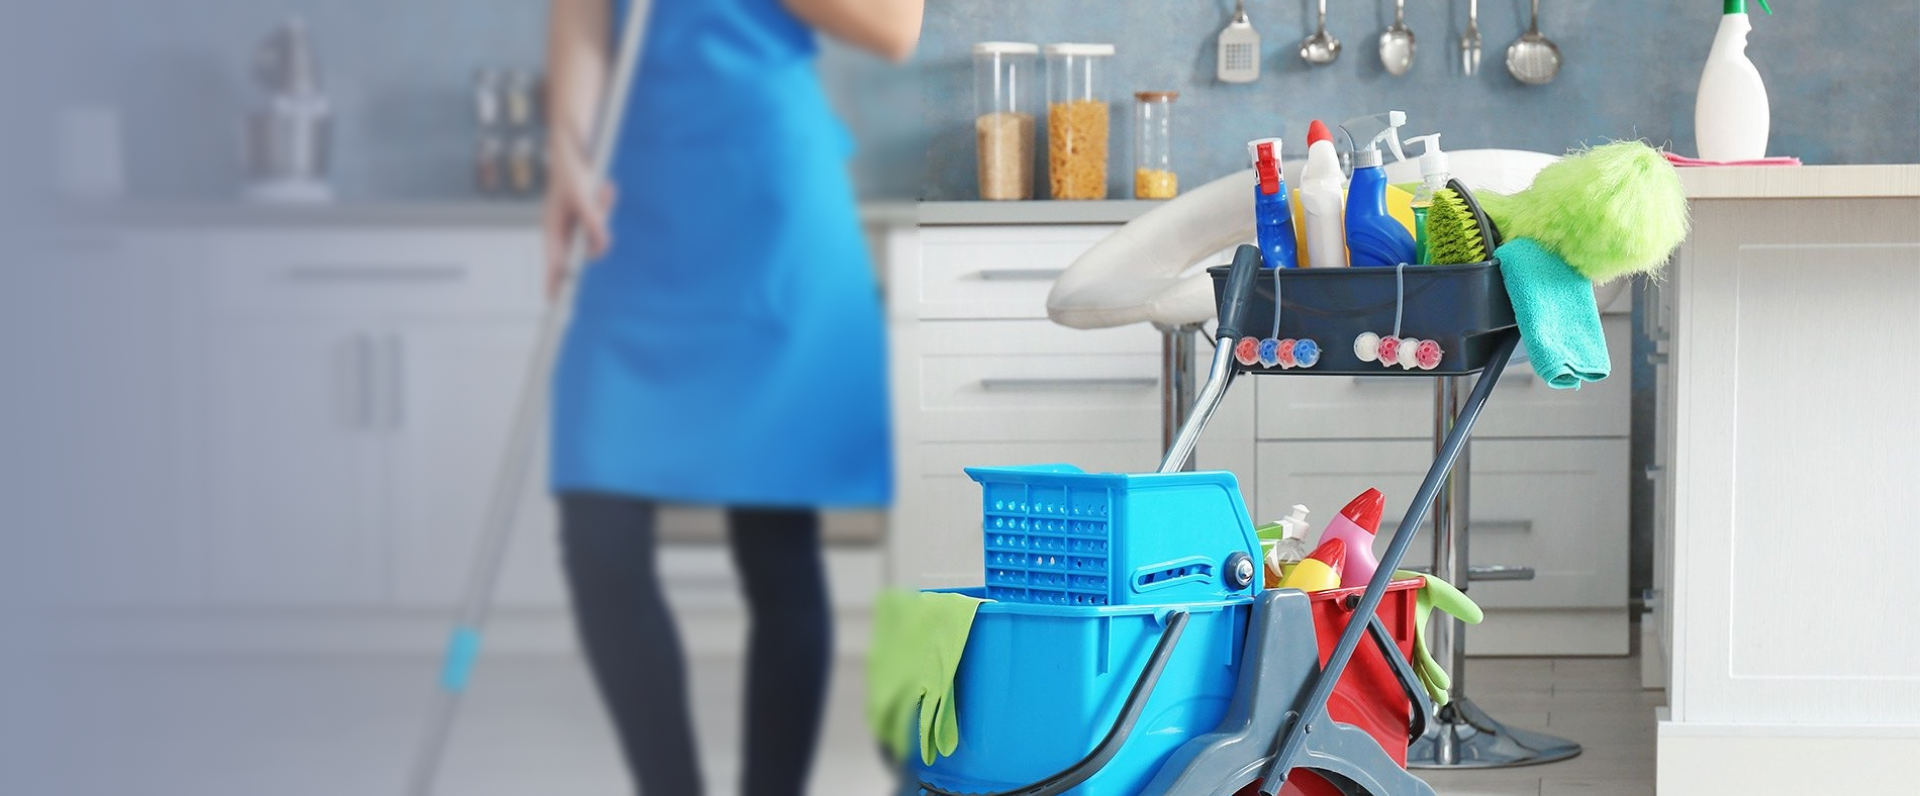
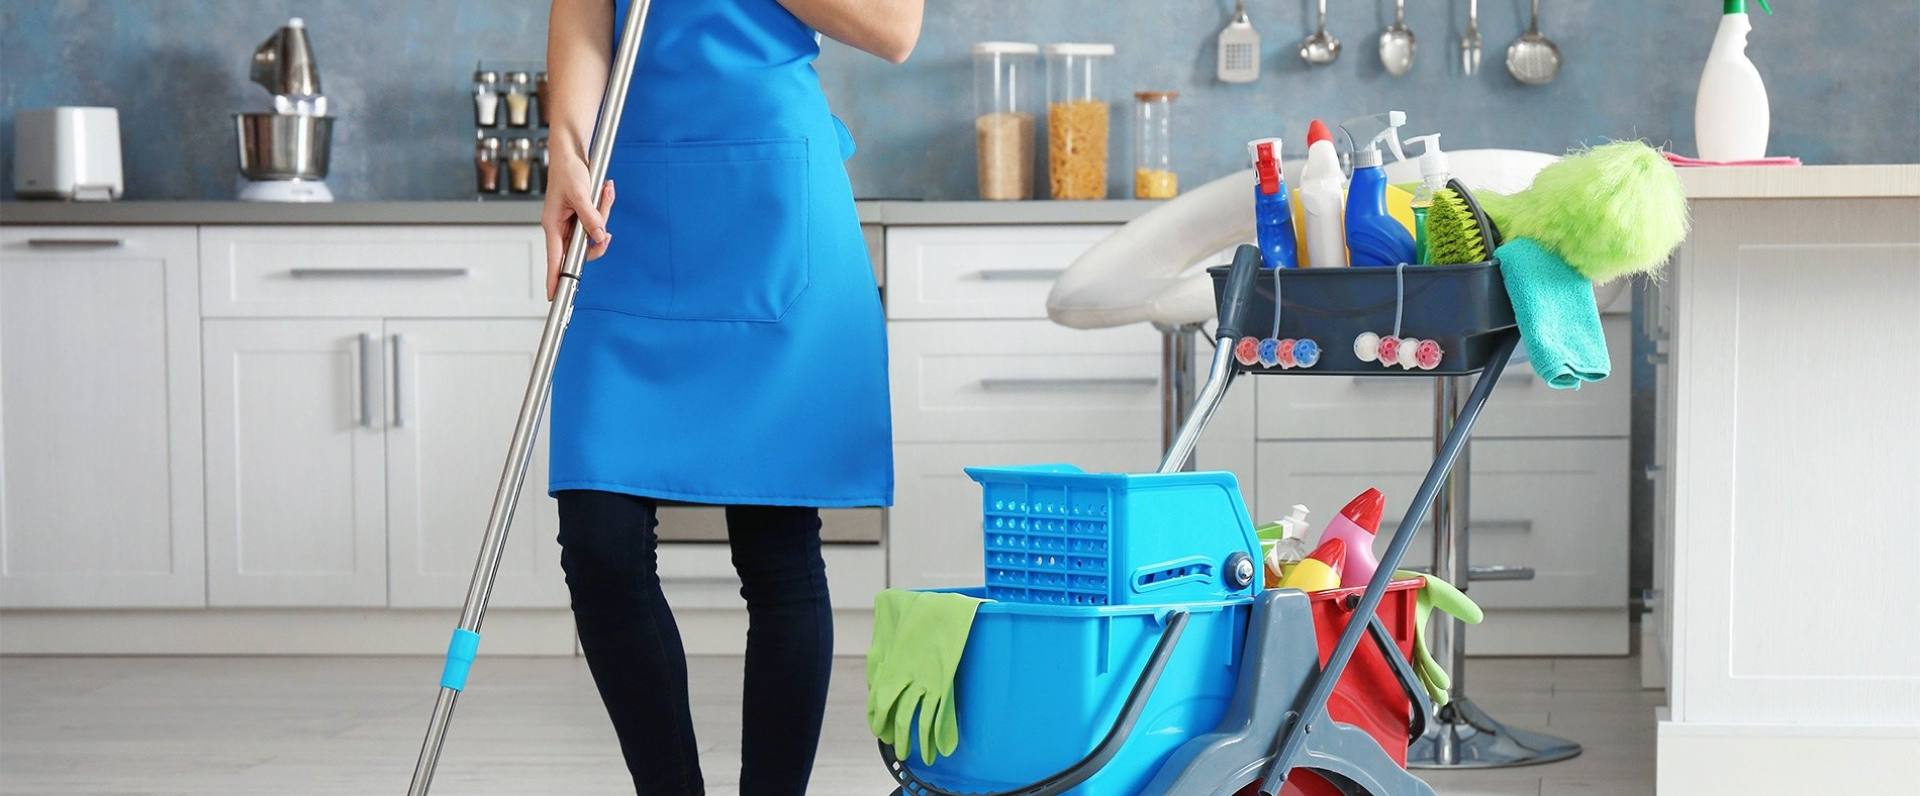
fix: hero and map

diff --git a/src/components/hero/Hero.module.scss b/src/components/hero/Hero.module.scss
@@ -1,11 +1,22 @@
-@import "src/color.scss";
+@import "../../color.scss";
 .hero {
+    position: relative;
     background-image: url(../../assets/hero.png);
     background-size: cover;
     width: 100%;
     height: 921px;
     display: flex;
     justify-content: center;
+    z-index: 0;
+}
+.blur {
+    position: absolute;
+    left: 0;
+    top: 0;
+    width: 55%;
+    height: 921px;
+    backdrop-filter: blur(10px);
+    z-index: 2;
 }
 .wrapper {
     width: 1360px;
@@ -17,6 +28,7 @@
     display: flex;
     flex-direction: column;
     gap: 60px;
+    z-index: 3;
 }
 .items {
     display: flex;
@@ -51,17 +63,23 @@
 }
 @media (max-width: 1450px) {
     .wrapper {
-        width: 80%;
+        width: 90%;
+    }
+    .blur{
+        width: 90%;
     }
 }
 
 @media (max-width: 600px) {
-      .hero {
-        background-image: url(../../assets/hero__small.png) ;
+    .blur{
+        display: none;
+    }
+    .hero {
+        background-image: url(../../assets/hero__small.png);
         background-size: cover;
         background-repeat: no-repeat;
-        height: 210px;       
-        }
+        height: 210px;
+    }
     .title {
         font-weight: 500;
         font-size: 18px;
@@ -93,8 +111,10 @@
         font-size: 10px;
         width: 100%;
     }
-    .block{
-        gap:15px;
+    .block {
+        padding: 6%;
+        gap: 15px;
         width: 100%;
+        backdrop-filter: blur(10px);
     }
 }

diff --git a/src/components/hero/Hero.tsx b/src/components/hero/Hero.tsx
@@ -6,12 +6,13 @@ function Hero() {
     return (
         <div>
             <div className={styles.hero}>
+                <div className={styles.blur}></div>
                 <div className={styles.wrapper}>
                     <div className={styles.block}>
                         <h1 className={styles.title}>Бытовая химия, косметика и хозтовары</h1>
                         <h3 className={styles.title_small}>оптом по кокчетаву и области</h3>
                         <Link to="/sultan/catalog" >
-                           <div className={styles.block_button}><Button name="В каталог" size="button_big1" /></div>
+                            <div className={styles.block_button}><Button name="В каталог" size="button_big1" /></div>
                         </Link>
                         <div className={styles.items}>
                             <div className={styles.item}>
@@ -25,6 +26,7 @@ function Hero() {
                         </div>
                     </div>
                 </div>
+
             </div>
             <div className={styles.items__small}>
                 <div className={styles.item}>

diff --git a/src/components/map/Map.module.scss b/src/components/map/Map.module.scss
@@ -7,7 +7,7 @@
 .wrap {
     width: 1360px;
     height: 600px;
-     position: relative;
+    position: relative;
 }
 .title {
     font-weight: 500;
@@ -36,7 +36,6 @@
     z-index: 800;
     background: rgba(255, 255, 255, 0.4);
     backdrop-filter: blur(4px);
-
 }
 .block {
     display: flex;
@@ -56,7 +55,7 @@
     .info {
         height: auto;
         max-height: 400px;
-        width: 85%;
+        width: 75%;
     }
 }
 @media (max-width: 600px) {
@@ -71,9 +70,8 @@
         line-height: 24px;
     }
     .info {
-        margin: 10px;
-        padding: 30px;
         gap: 10px;
+        padding: 30px;
     }
     .block {
         gap: 10px;

diff --git a/src/components/map/Map.tsx b/src/components/map/Map.tsx
@@ -19,7 +19,6 @@ const MapKazakhstan: React.FC = () => {
                         </Popup>
                     </Marker>
                 </MapContainer>
-
                 <div className={styles.info}>
                     <h3 className={styles.title}>Контакты</h3>
                     <span className={styles.text}>Оптовый поставщик «Султан»</span>

diff --git a/src/components/stockProducts/StockProducts.module.scss b/src/components/stockProducts/StockProducts.module.scss
@@ -3,7 +3,7 @@
     display: flex;
     justify-content: center;
 }
-.title__start{
+.title__start {
     color: $yellow_1;
 }
 .title {
@@ -15,4 +15,15 @@
 }
 .wrap {
     width: 1360px;
+}
+@media (max-width: 1450px) {
+    .wrap {
+        width: 90%;
+    }
+}
+@media (max-width: 600px) {
+    .title {
+        font-size: 20px;
+        line-height: 24px;
+    }
 }

diff --git a/src/pages/Home.module.scss b/src/pages/Home.module.scss
@@ -4,3 +4,9 @@
     gap: 90px;
     padding-bottom: 100px;
 }
+
+@media (max-width: 600px) {
+    .home {
+        gap: 25px;
+    }
+}
